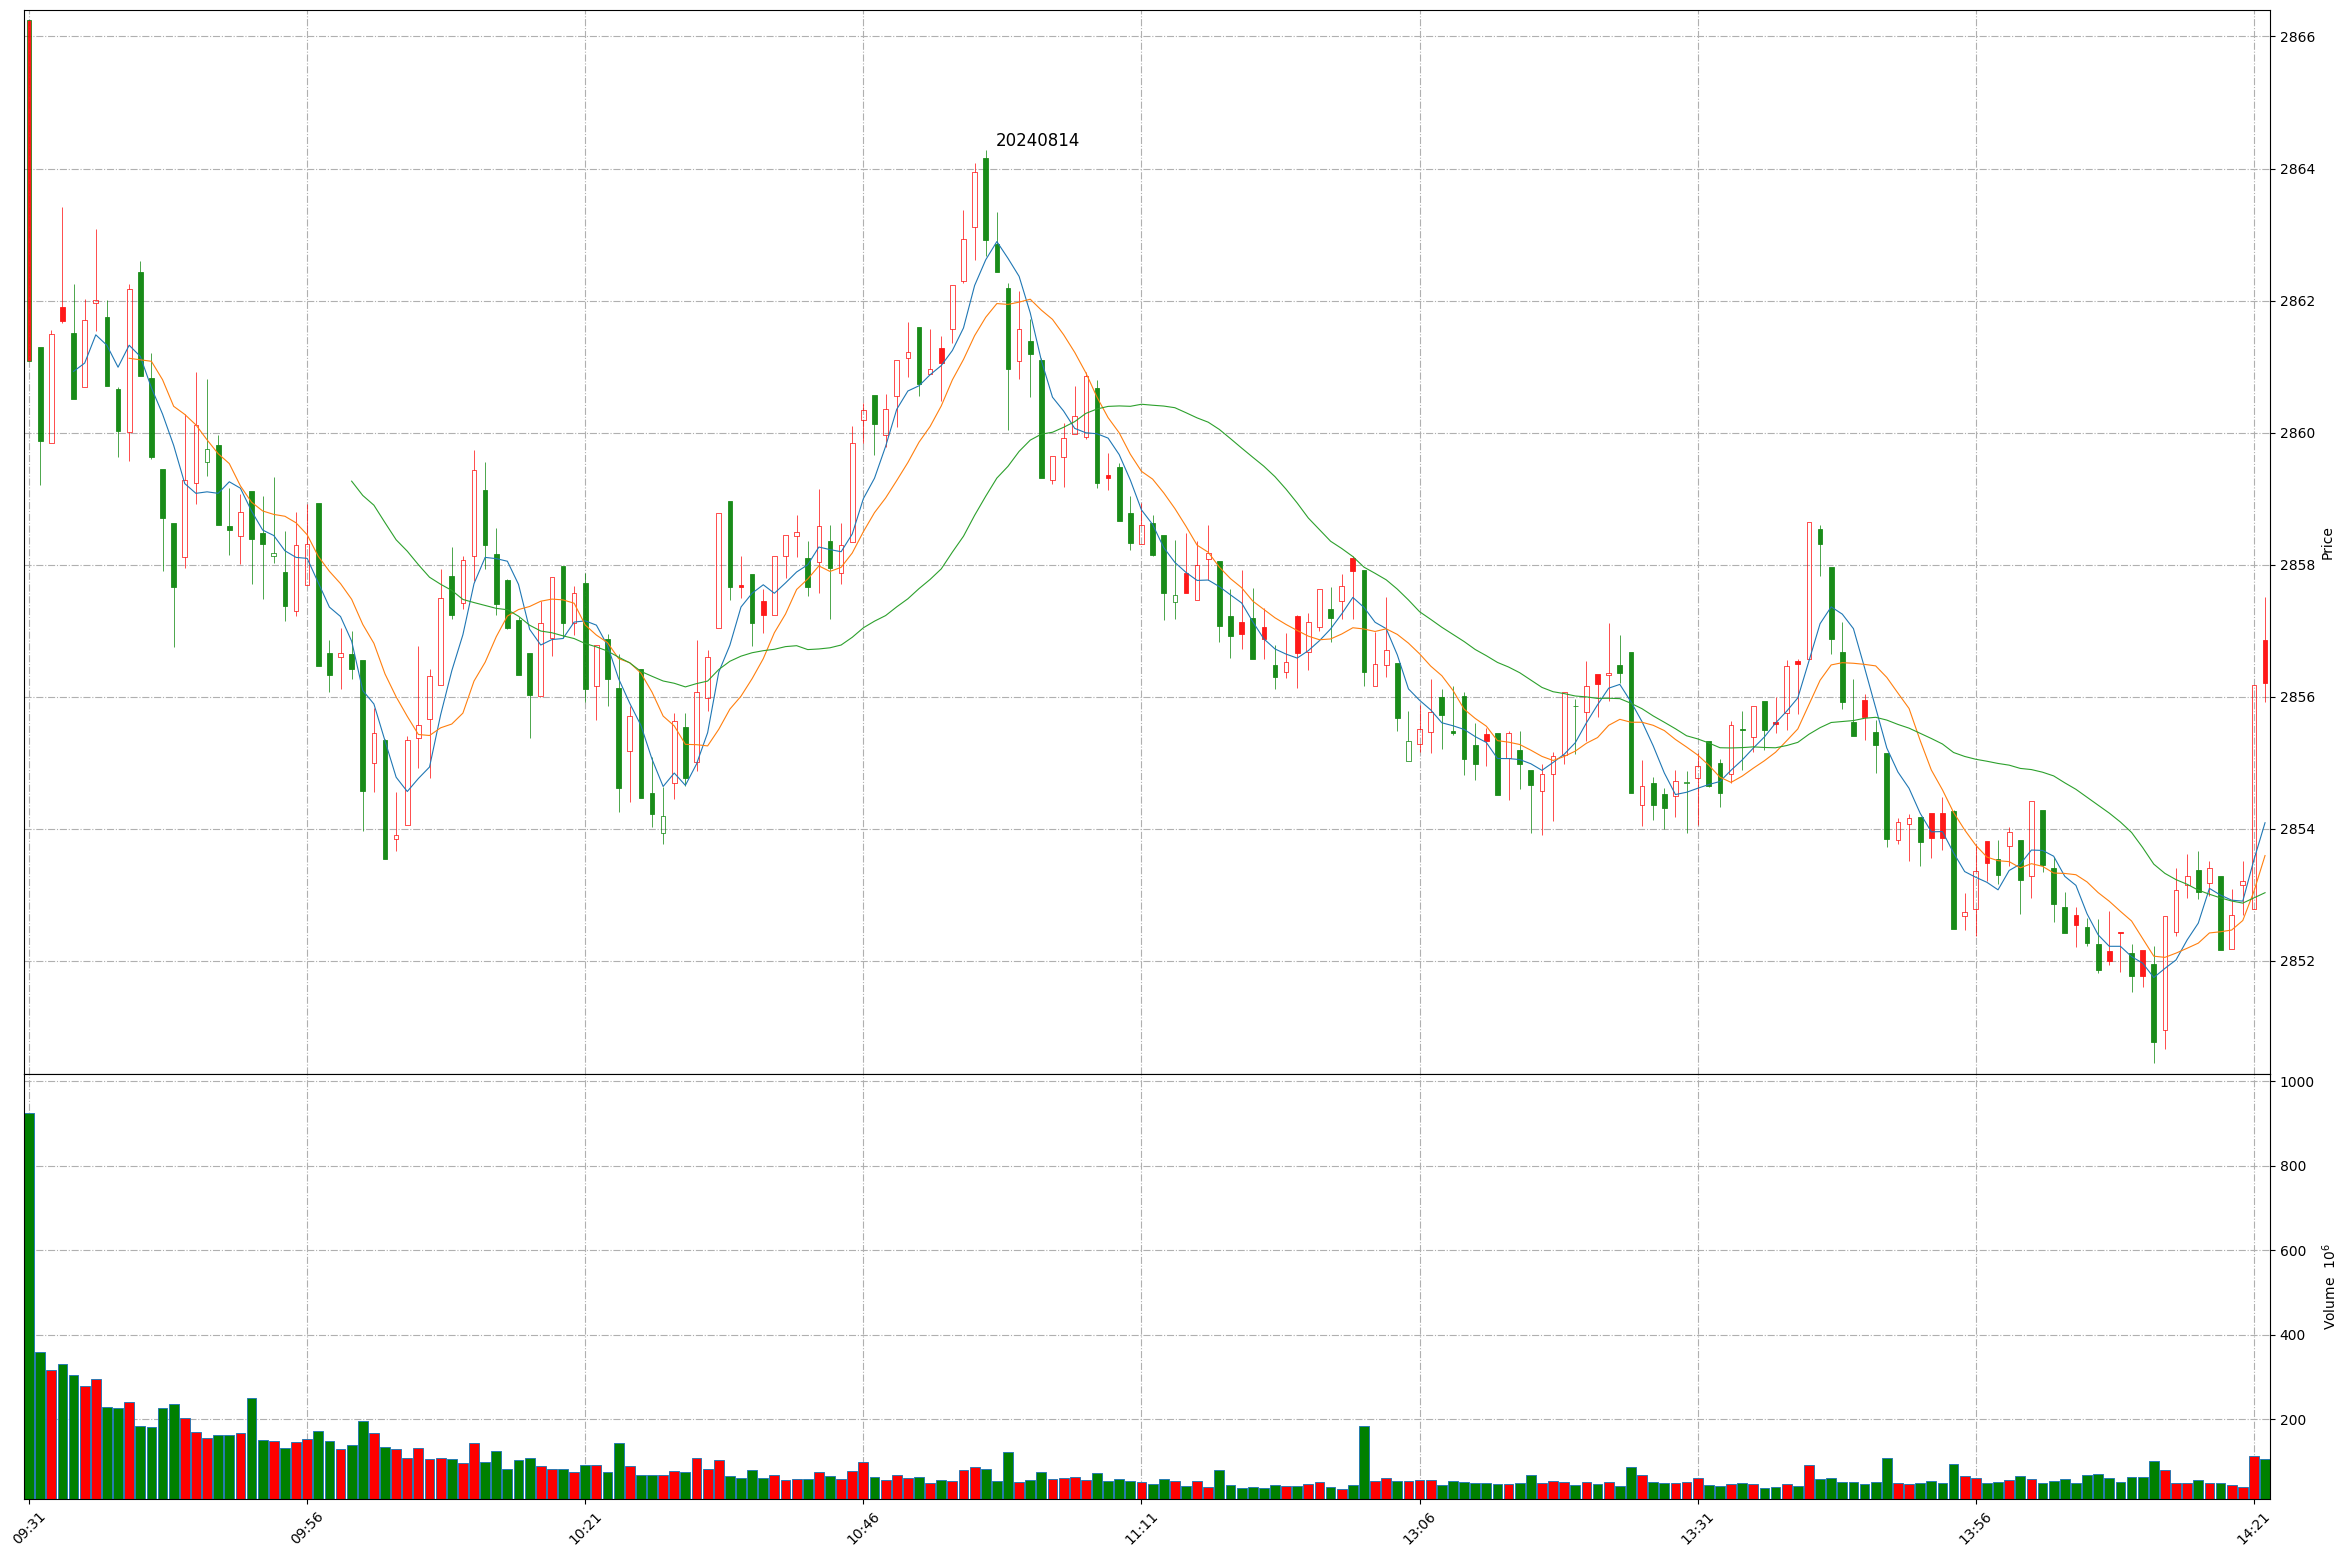
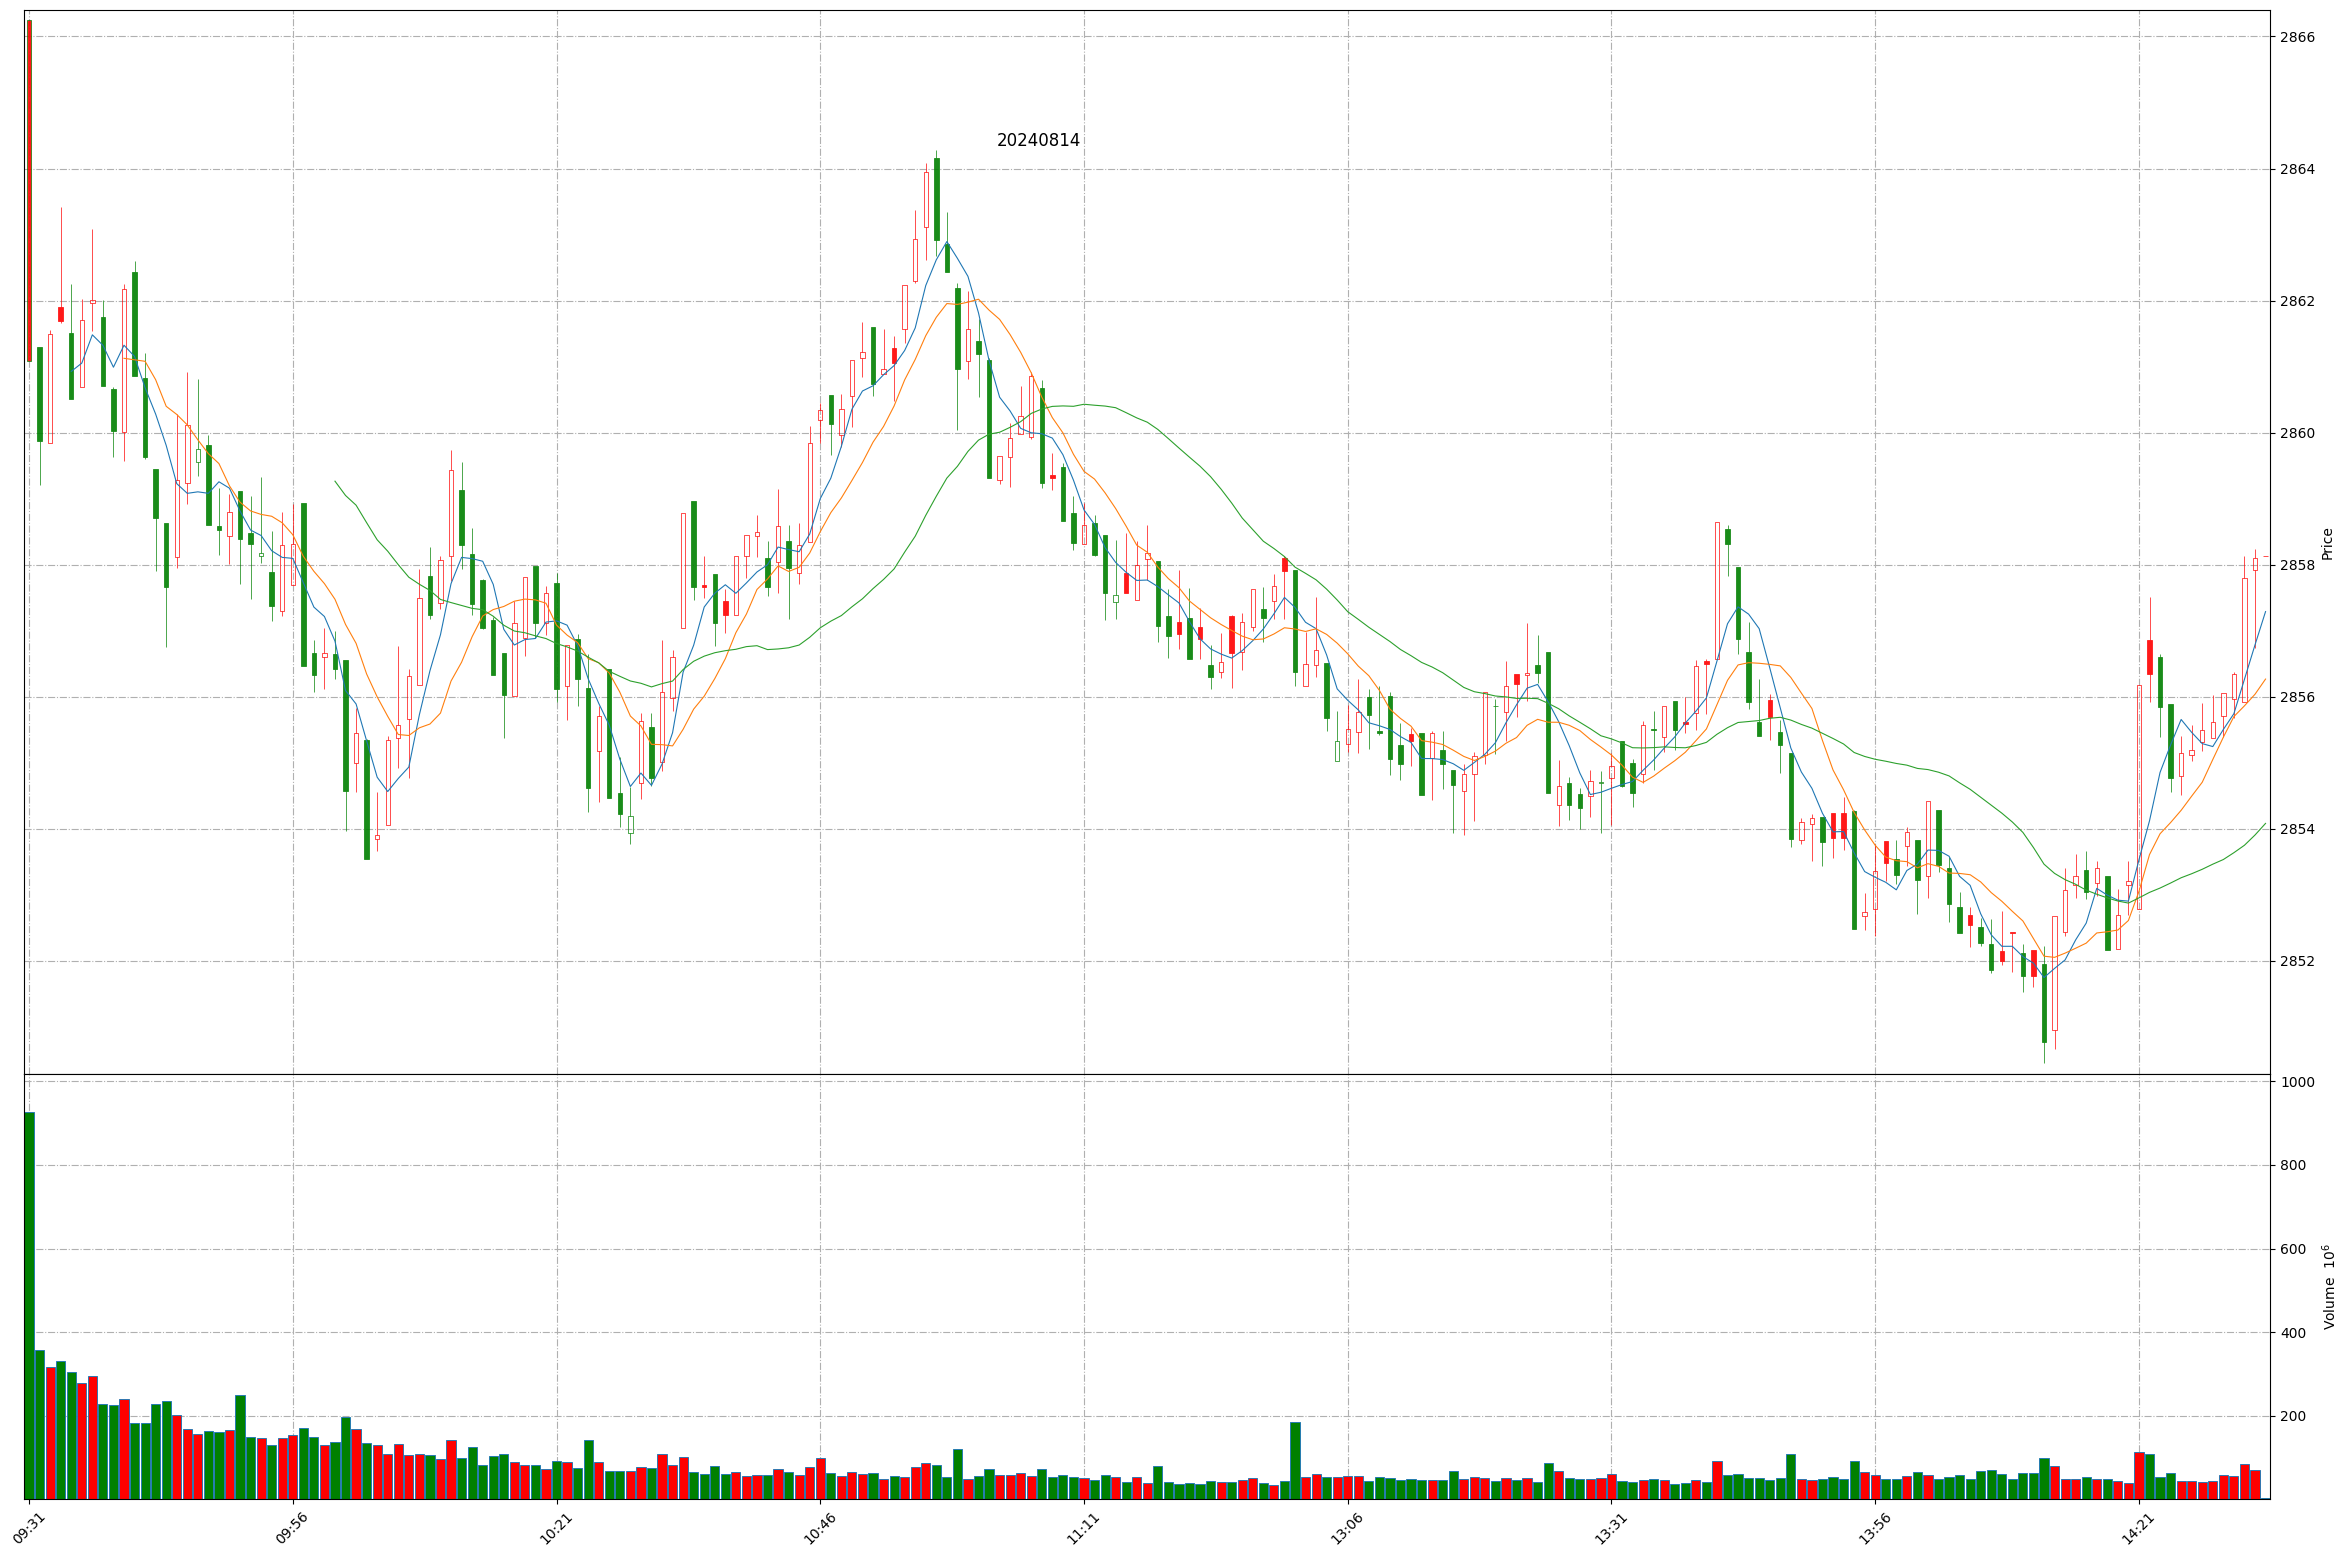
Github action update at 2024-08-14 14:32:24.

Changed region(s): [[0.0, 0.1233, 0.9634, 0.6474], [0.0, 0.8632, 0.9634, 0.9865], [0.4351, 0.0617, 0.4662, 0.0925]]

diff --git a/README.md b/README.md
@@ -1,11 +1,11 @@
 
 # Daily-A-share-market-quotes 每日 A 股指数（5min 更新）- 20240814
 
-### 上证指数 20240814 14:22
+### 上证指数 20240814 14:32
 ![](./fig/2024/8/20240814-sh000001.png)
 
-### 深证成指 20240814 14:22
+### 深证成指 20240814 14:32
 ![](./fig/2024/8/20240814-sz399001.png)
 
-### 北证50 20240814 14:22
+### 北证50 20240814 14:32
 ![](./fig/2024/8/20240814-bj899050.png)
